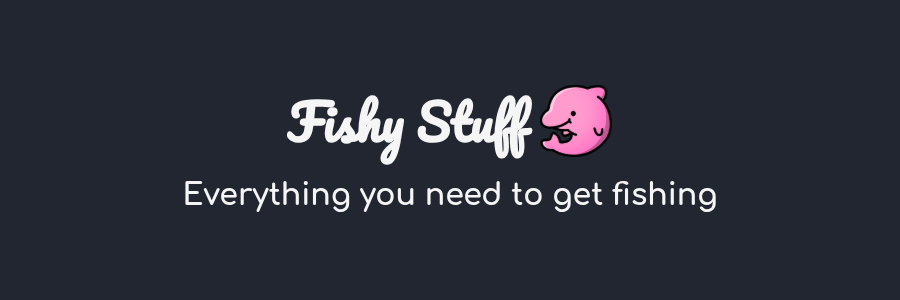
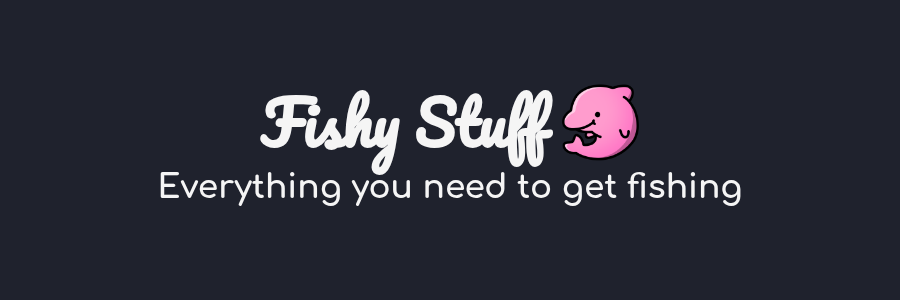
Generate localized site embed images

Changed region(s): [[0.1556, 0.27, 0.84, 0.72]]

diff --git a/site/scripts/embed-image-template.html b/site/scripts/embed-image-template.html
@@ -1,0 +1,88 @@
+<!DOCTYPE html>
+<html data-theme="fishy" lang="__LOCALE__">
+<head>
+  <meta charset="UTF-8">
+  <meta name="viewport" content="width=900, initial-scale=1">
+  <link rel="stylesheet" href="__FONTS_CSS_HREF__">
+  <link rel="stylesheet" href="__SITE_CSS_HREF__">
+  <style>
+    html, body {
+      margin: 0;
+      width: 900px;
+      height: 300px;
+      overflow: hidden;
+    }
+
+    body {
+      background: var(--color-base-100);
+      color: var(--color-base-content);
+    }
+
+    .embed-stage {
+      box-sizing: border-box;
+      width: 100%;
+      height: 100%;
+      display: grid;
+      place-items: center;
+      padding: 0.9rem 1.5rem 0.4rem;
+    }
+
+    .embed-stage > .max-w-3xl {
+      width: min(100%, 860px);
+      display: flex;
+      flex-direction: column;
+      align-items: center;
+      justify-content: center;
+      text-align: center;
+      transform: translateY(-0.6rem);
+    }
+
+    .home-wordmark {
+      display: inline-flex;
+      align-items: center;
+      justify-content: center;
+      gap: 1rem;
+      min-width: max-content;
+      margin-bottom: 0.65rem;
+      white-space: nowrap;
+      font-size: 3.7rem;
+      line-height: 0.92;
+      text-decoration: none;
+    }
+
+    .home-wordmark img {
+      height: 4.8rem;
+      width: auto;
+      flex: none;
+    }
+
+    .embed-title {
+      margin: 0;
+      max-width: 860px;
+      font-size: __TITLE_FONT_SIZE__;
+      font-weight: 900;
+      line-height: 1.02;
+      text-wrap: balance;
+    }
+  </style>
+</head>
+<body>
+  <div class="embed-stage">
+    <div class="max-w-3xl">
+      <a href="__HOME_HREF__" class="home-wordmark font-brand font-bold no-underline hover:no-underline focus:no-underline">
+        <span>Fishy Stuff</span>
+        <img src="__LOGO_HREF__" alt="" decoding="async">
+      </a>
+      <h1 class="embed-title">__TAGLINE__</h1>
+    </div>
+  </div>
+  <script>
+    Promise.all([
+      document.fonts ? document.fonts.ready : Promise.resolve(),
+      new Promise((resolve) => requestAnimationFrame(() => requestAnimationFrame(resolve))),
+    ]).then(() => {
+      document.documentElement.setAttribute("data-ready", "true");
+    });
+  </script>
+</body>
+</html>
